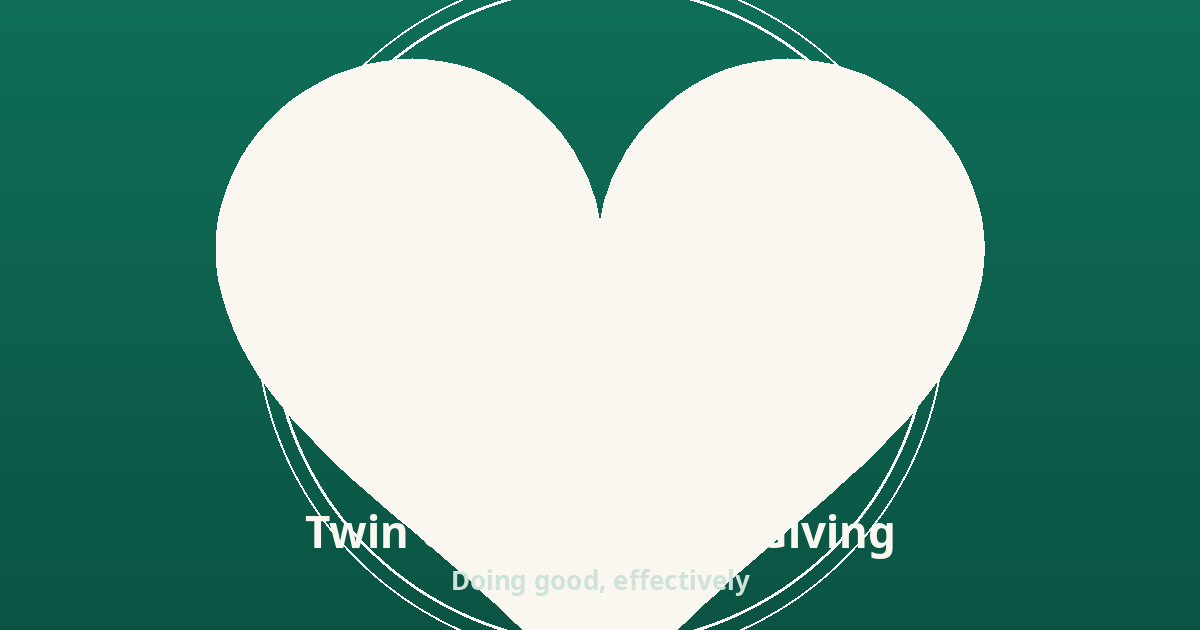
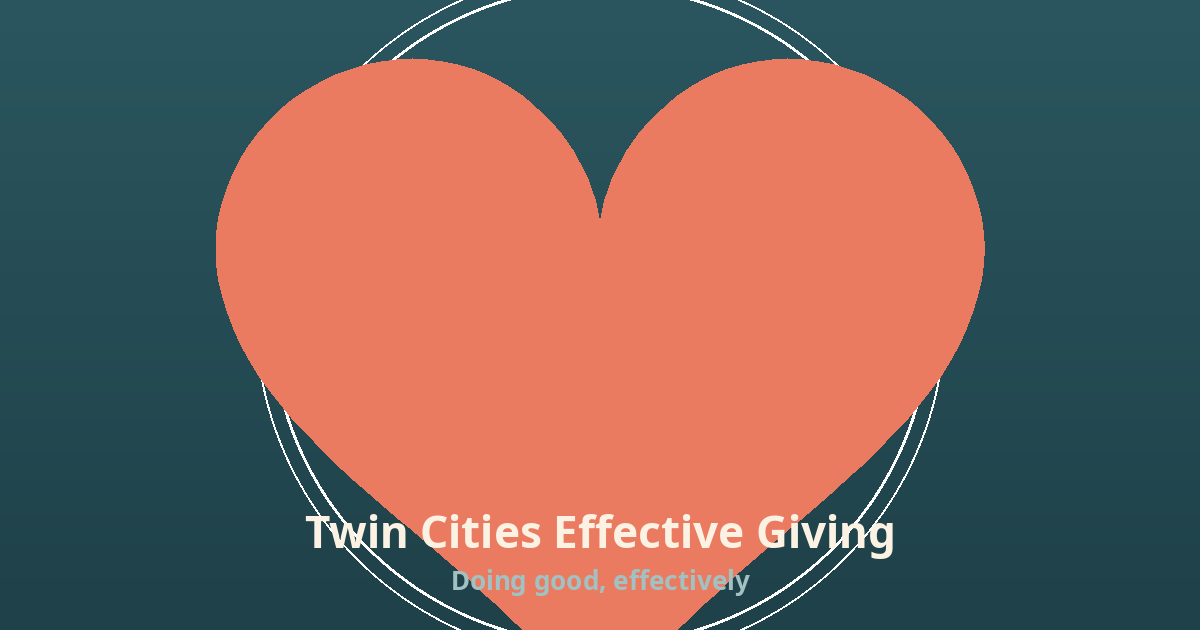
Apply TCEG color scheme

diff --git a/src/app/app.scss b/src/app/app.scss
@@ -87,7 +87,7 @@ main {
 /* ---------- Hero ---------- */
 
 .hero {
-  background: linear-gradient(160deg, var(--paper) 0%, #eef4ee 100%);
+  background: linear-gradient(160deg, var(--paper) 0%, #e4e6dc 100%);
   padding: 4.5rem 2rem 5rem;
 }
 
@@ -199,7 +199,7 @@ main {
 }
 
 .pillar {
-  background: #fff;
+  background: var(--paper-soft);
   border: 1px solid var(--border);
   border-radius: 1.25rem;
   padding: 1.75rem;
@@ -239,7 +239,7 @@ main {
   display: flex;
   gap: 1.1rem;
   align-items: flex-start;
-  background: #fff;
+  background: var(--paper-soft);
   border: 1px solid var(--border);
   border-radius: 1.25rem;
   padding: 1.25rem;
@@ -292,7 +292,7 @@ main {
 }
 
 .events__calendar {
-  background: #fff;
+  background: var(--paper-soft);
   border: 1px solid var(--border);
   border-radius: 1.25rem;
   padding: 1.5rem;
@@ -333,7 +333,7 @@ main {
   flex-direction: column;
   padding: 0.7rem 1.1rem;
   border-radius: 1rem;
-  background: #fff;
+  background: var(--paper-soft);
   border: 1px solid var(--border);
   text-decoration: none;
   transition: border-color 0.15s ease, transform 0.15s ease;
@@ -356,7 +356,7 @@ main {
 }
 
 .signup {
-  background: #fff;
+  background: var(--paper-soft);
   border: 1px solid var(--border);
   border-radius: 1.5rem;
   padding: 2rem;

diff --git a/src/styles.scss b/src/styles.scss
@@ -1,15 +1,19 @@
 @import url('https://fonts.googleapis.com/css2?family=Fraunces:opsz,wght@9..144,600;9..144,700&family=Inter:wght@400;500;600;700&display=swap');
 
 :root {
-  --paper: #faf7f0;
-  --paper-soft: #fffdf8;
-  --ink: #142b23;
-  --ink-soft: #4d635b;
-  --border: #e5e0d5;
-  --primary: #0f6e58;
-  --primary-dark: #0b5443;
-  --accent: #e0783a;
-  --accent-dark: #c2622c;
+  --paper: #fbf2e4;
+  --paper-soft: #fffaf0;
+  --ink: #2b565f;
+  --ink-soft: #646f4f;
+  --ink-soft-muted: #b9c6c2;
+  --border: #e7dcc7;
+  --primary: #2b565f;
+  --primary-dark: #1f4149;
+  --accent: #eb7b60;
+  --accent-dark: #d25f44;
+  --green: #99a978;
+  --light-blue: #a1c1c2;
+  --dark-green: #646f4f;
   --max-width: 1120px;
   --font-body: 'Inter', -apple-system, BlinkMacSystemFont, 'Segoe UI', Roboto, sans-serif;
   --font-display: 'Fraunces', Georgia, 'Times New Roman', serif;

diff --git a/src/app/footer/footer.scss b/src/app/footer/footer.scss
@@ -20,7 +20,7 @@
 }
 
 .footer__description {
-  color: var(--ink-soft-muted, #a8b8b2);
+  color: var(--light-blue);
   font-size: 0.95rem;
   max-width: 24rem;
   margin: 0;
@@ -38,7 +38,7 @@
 .footer__link,
 .footer__social {
   display: block;
-  color: var(--ink-soft-muted, #a8b8b2);
+  color: var(--light-blue);
   text-decoration: none;
   margin-bottom: 0.45rem;
   transition: color 0.15s ease;
@@ -54,7 +54,7 @@
   margin: 2.5rem auto 0;
   padding-top: 1.25rem;
   max-width: var(--max-width);
-  color: var(--ink-soft-muted, #8a9a94);
+  color: var(--light-blue);
   font-size: 0.85rem;
 }
 

diff --git a/src/index.html b/src/index.html
@@ -9,7 +9,7 @@
       name="description"
       content="Twin Cities Effective Giving — a local giving circle that pools donations toward the charities where evidence shows they help the most. Monthly meetups in the Twin Cities metro."
     />
-    <meta name="theme-color" content="#0f6e58" />
+    <meta name="theme-color" content="#2b565f" />
     <link rel="icon" type="image/x-icon" href="favicon.ico" />
     <meta property="og:type" content="website" />
     <meta property="og:url" content="https://twincitieseffectivegiving.github.io/" />

diff --git a/src/app/navbar/navbar.scss b/src/app/navbar/navbar.scss
@@ -7,7 +7,7 @@
   justify-content: space-between;
   gap: 1.5rem;
   padding: 0.9rem 2rem;
-  background: rgb(255 255 255 / 0.85);
+  background: rgb(251 242 228 / 0.85);
   backdrop-filter: blur(10px);
   border-bottom: 1px solid var(--border);
 }
